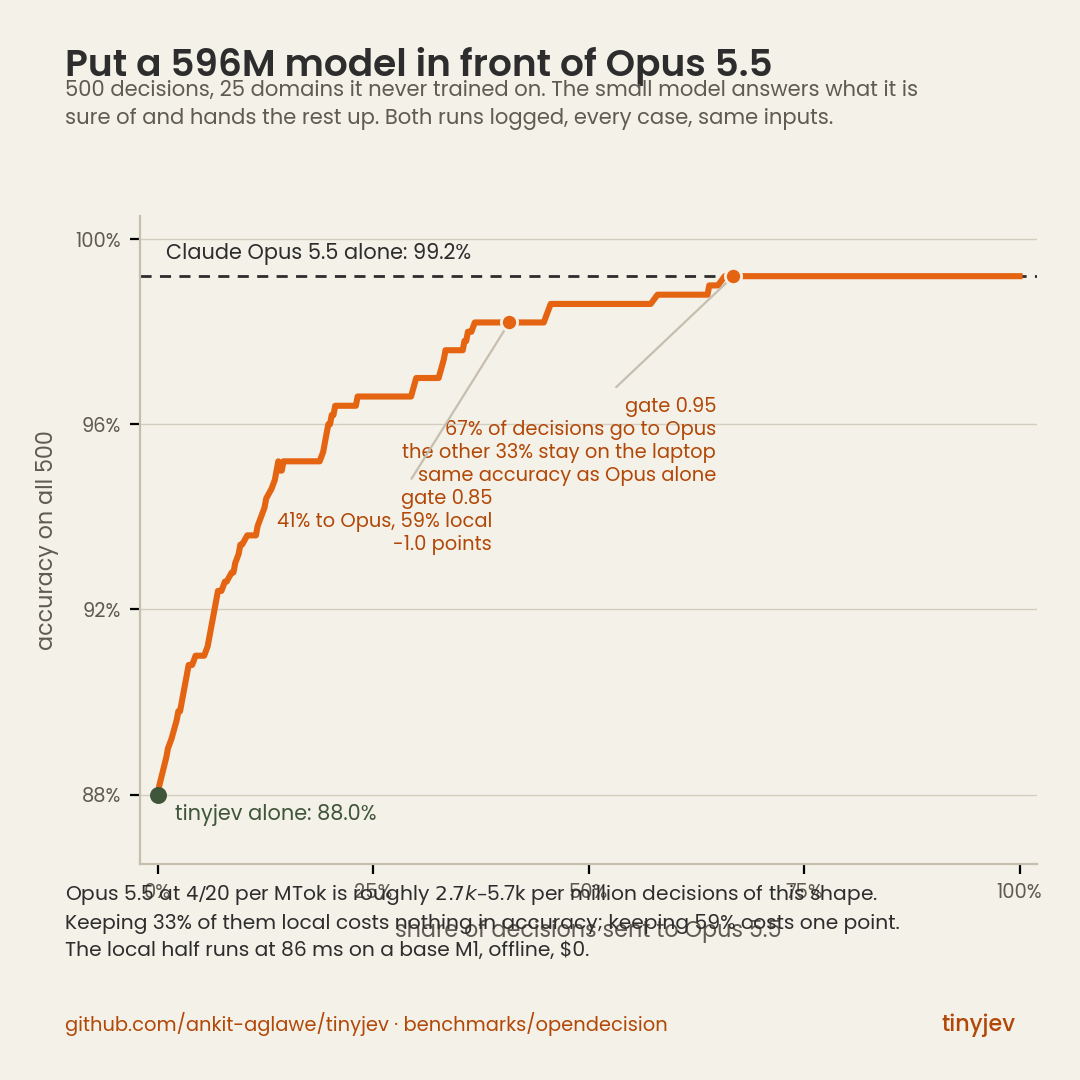
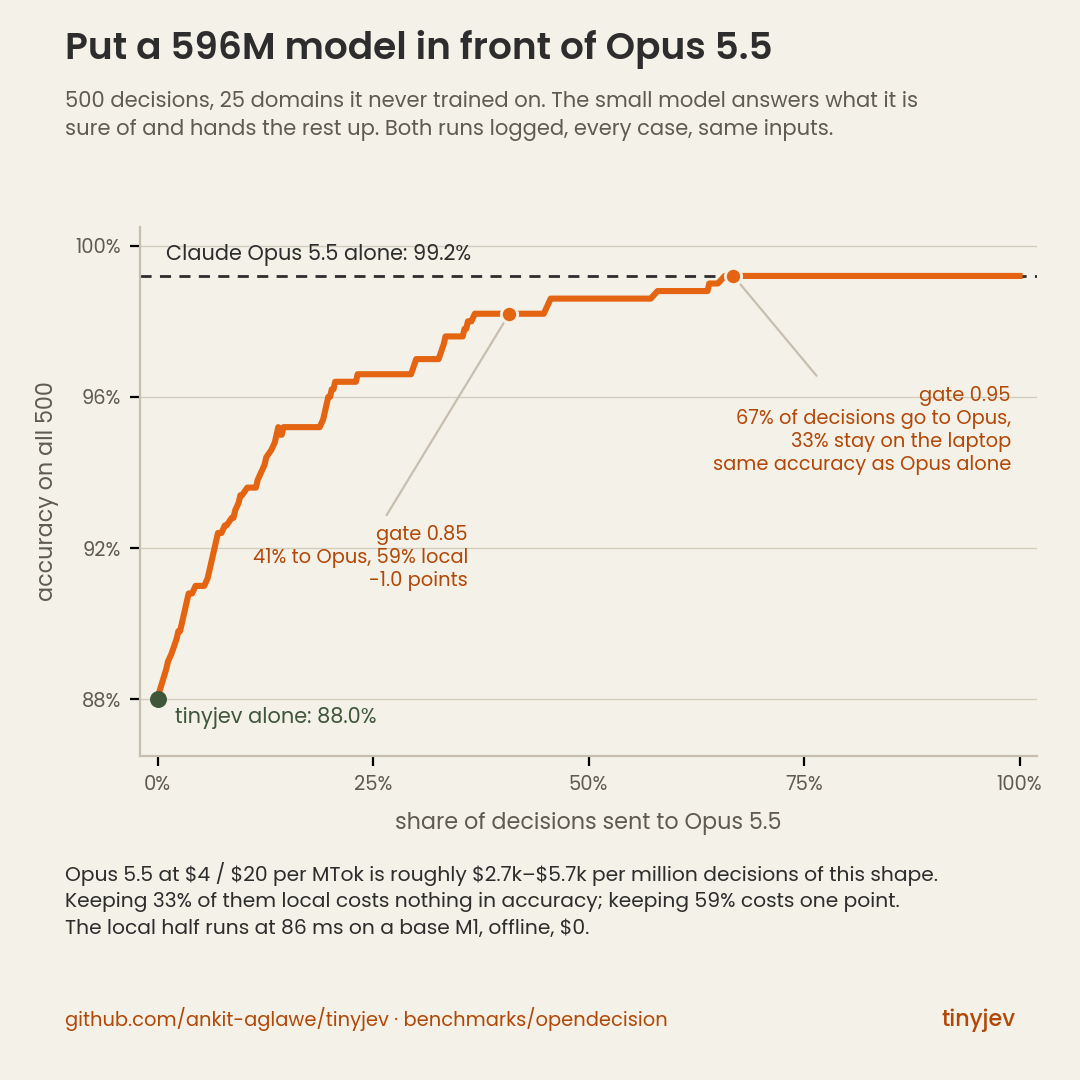
chart spacing

diff --git a/benchmarks/opendecision/cascade_chart.py b/benchmarks/opendecision/cascade_chart.py
@@ -20,19 +20,19 @@ big = float(rows[0]["big_only_accuracy"]) * 100
 pick = {float(r["gate"]): r for r in rows}
 
 fig, ax = plt.subplots(figsize=(5.4, 5.4), dpi=200)
-fig.subplots_adjust(left=0.13, right=0.96, top=0.80, bottom=0.20)
+fig.subplots_adjust(left=0.13, right=0.96, top=0.79, bottom=0.30)
 ax.plot(xs, ys, color=ACCENT, linewidth=2.2, zorder=3)
 ax.axhline(big, color=INK, linestyle=(0, (4, 3)), linewidth=1, zorder=2)
 ax.text(1, big + 0.25, f"Claude Opus 5.5 alone: {big:.1f}%", fontsize=7.5, color=INK, va="bottom")
 ax.scatter([0], [tj["accuracy"] * 100], color=MOSS, s=26, zorder=4)
 ax.text(2, tj["accuracy"] * 100 - 0.2, f"tinyjev alone: {tj['accuracy']*100:.1f}%", fontsize=7.5, color=MOSS, va="top")
-for g, dy, txt in ((0.95, -2.6, "gate 0.95\n{sent:.0f}% of decisions go to Opus\nthe other {local:.0f}% stay on the laptop\nsame accuracy as Opus alone"),
-                   (0.85, -3.6, "gate 0.85\n{sent:.0f}% to Opus, {local:.0f}% local\n{delta:+.1f} points")):
+for g, xy_text, ha, txt in ((0.95, (99, 96.3), "right", "gate 0.95\n{sent:.0f}% of decisions go to Opus,\n{local:.0f}% stay on the laptop\nsame accuracy as Opus alone"),
+                            (0.85, (36, 92.6), "right", "gate 0.85\n{sent:.0f}% to Opus, {local:.0f}% local\n{delta:+.1f} points")):
     r = pick[g]; x = float(r["sent_to_big"]) * 100; y = float(r["cascade_accuracy"]) * 100
     ax.scatter([x], [y], color=ACCENT, s=34, zorder=5, edgecolor=PAPER, linewidth=1)
-    ax.annotate(txt.format(sent=x, local=100 - x, delta=float(r["delta_vs_big"]) * 100), (x, y), (x - 2, y + dy),
-                fontsize=7, color=ACCENT_TEXT, ha="right", va="top",
-                arrowprops=dict(arrowstyle="-", color=RULE, lw=0.8))
+    ax.annotate(txt.format(sent=x, local=100 - x, delta=float(r["delta_vs_big"]) * 100), (x, y), xy_text,
+                fontsize=7, color=ACCENT_TEXT, ha=ha, va="top",
+                arrowprops=dict(arrowstyle="-", color=RULE, lw=0.8, shrinkB=4))
 ax.set_xlim(-2, 102); ax.set_ylim(86.5, 100.5)
 ax.set_xlabel("share of decisions sent to Opus 5.5", fontsize=8, color=MUTED, labelpad=6)
 ax.set_ylabel("accuracy on all 500", fontsize=8, color=MUTED, labelpad=6)
@@ -41,16 +41,16 @@ ax.set_yticks([88, 92, 96, 100]); ax.set_yticklabels([f"{v}%" for v in (88, 92, 
 for s in ax.spines.values(): s.set_color(RULE)
 ax.spines[["top", "right"]].set_visible(False)
 ax.grid(axis="y", color=RULE, linewidth=0.5, alpha=0.7)
-fig.text(0.06, 0.93, "Put a 596M model in front of Opus 5.5", fontsize=13.5, weight="semibold", color=INK)
-fig.text(0.06, 0.885, "500 decisions, 25 domains it never trained on. The small model answers what it is\nsure of and hands the rest up. Both runs logged, every case, same inputs.",
+fig.text(0.06, 0.945, "Put a 596M model in front of Opus 5.5", fontsize=13.5, weight="semibold", color=INK)
+fig.text(0.06, 0.875, "500 decisions, 25 domains it never trained on. The small model answers what it is\nsure of and hands the rest up. Both runs logged, every case, same inputs.",
          fontsize=7.6, color=MUTED, linespacing=1.4)
 g95 = pick[0.95]; g85 = pick[0.85]
-fig.text(0.06, 0.115, f"Opus 5.5 at $4 / $20 per MTok is roughly $2.7k–$5.7k per million decisions of this shape.\n"
+fig.text(0.06, 0.135, f"Opus 5.5 at \\$4 / \\$20 per MTok is roughly \\$2.7k–\\$5.7k per million decisions of this shape.\n"
                        f"Keeping {100-float(g95['sent_to_big'])*100:.0f}% of them local costs nothing in accuracy; keeping {100-float(g85['sent_to_big'])*100:.0f}% costs one point.\n"
-                       f"The local half runs at {tj['mean_ms']:.0f} ms on a base M1, offline, $0.",
+                       f"The local half runs at {tj['mean_ms']:.0f} ms on a base M1, offline, \\$0.",
          fontsize=7.3, color=INK, linespacing=1.45)
-fig.text(0.06, 0.045, "github.com/ankit-aglawe/tinyjev · benchmarks/opendecision", fontsize=7, color=ACCENT_TEXT)
-fig.text(0.94, 0.045, "tinyjev", fontsize=8, color=ACCENT_TEXT, ha="right", weight="medium")
+fig.text(0.06, 0.05, "github.com/ankit-aglawe/tinyjev · benchmarks/opendecision", fontsize=7, color=ACCENT_TEXT)
+fig.text(0.94, 0.05, "tinyjev", fontsize=8, color=ACCENT_TEXT, ha="right", weight="medium")
 out = ROOT / "assets" / "cascade.png"
 fig.savefig(out, facecolor=PAPER)
 print(out, out.stat().st_size // 1024, "KB")
